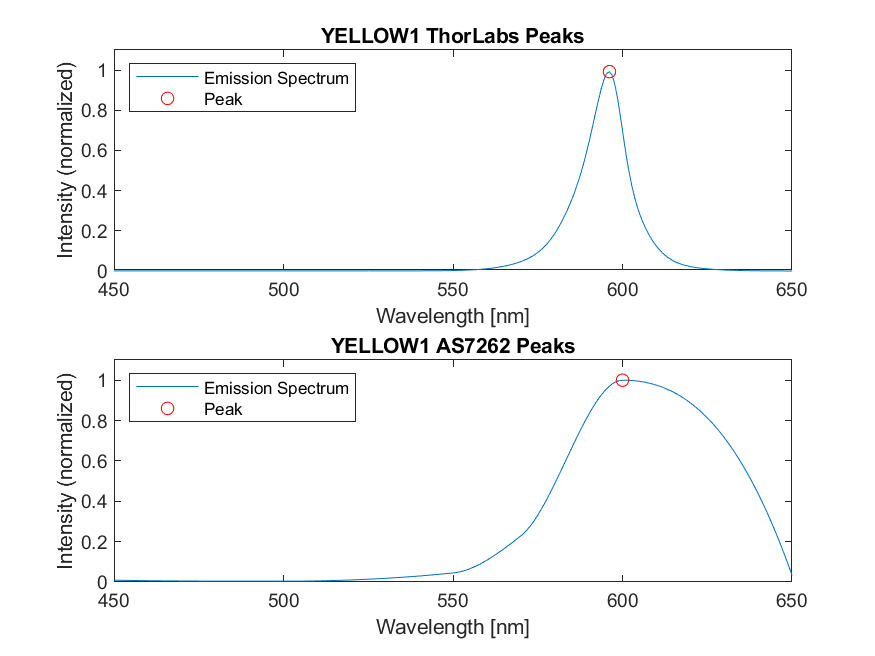
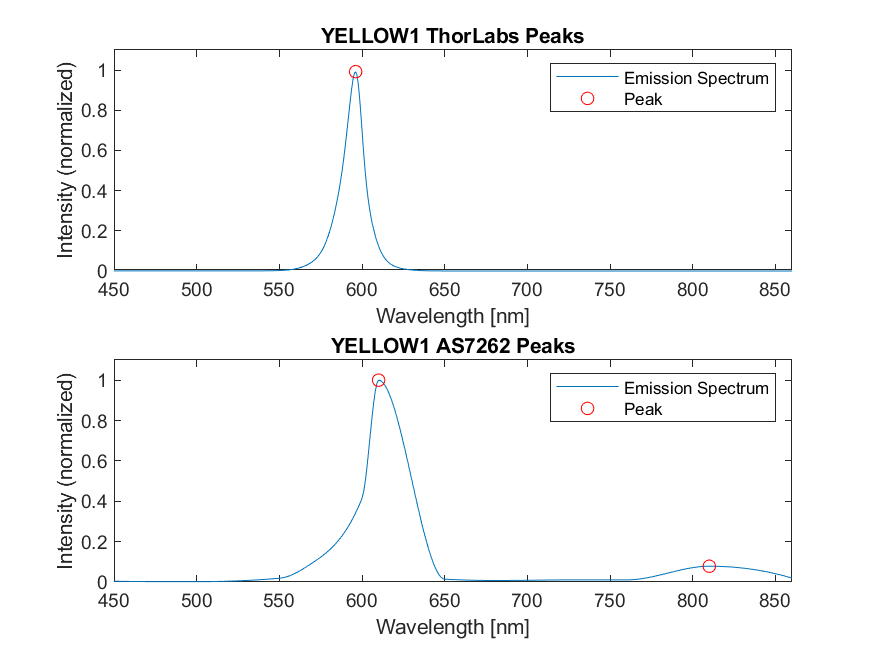
update Yellow S1

diff --git a/MATLAB Code/ResultsSet1/YELLOW_LEDs/YELLOW_RS1_Code.m b/MATLAB Code/ResultsSet1/YELLOW_LEDs/YELLOW_RS1_Code.m
@@ -21,16 +21,16 @@ YELLOW_GetFittedValues;
 figure(1)
 subplot(2,1,1);
 plot(spectrum_Y1_TL_fit,wavelength_TL, spectrum_Y1_TL_norm);
-axis([450 650 0 inf])
-legend("Data","Fitted curve",'Location','northwest');
+axis([450 860 0 inf])
+legend("Data","Fitted curve",'Location','northeast');
 xlabel("Wavelength [nm]");
 ylabel("Intensity (normalized)");
 title("YELLOW1 ThorLabs Fitted Emission Spectrum")
 
 subplot(2,1,2);
-plot(spectrum_Y1_AS_fit,wavelength_AS, spectrum_Y1_AS_norm);
-axis([450 650 0 inf])
-legend("Data","Fitted curve",'Location','northwest');
+plot(spectrum_Y1_AS_fit,wavelengthC_AS, spectrum_Y1_AS_norm);
+axis([450 860 0 inf])
+legend("Data","Fitted curve",'Location','northeast');
 xlabel("Wavelength [nm]");
 ylabel("Intensity (normalized)");
 title("YELLOW1 AS7262 Fitted Emission Spectrum")
@@ -43,8 +43,8 @@ spectrum_Y1_TL_plot = plot(spectrum_Y1_TL_fit,'b');
 hold on;
 spectrum_Y1_AS_plot = plot(spectrum_Y1_AS_fit,'r');
 hold on;
-legend("ThorLabs", "AS7262",'Location','northwest');
-axis([450 650 0 1.1])
+legend("ThorLabs", "AS7262",'Location','northeast');
+axis([450 860 0 1.1])
 xlabel("Wavelength [nm]");
 ylabel("Intensity (normalized)");
 title("YELLOW1 Emission Spectrum");
@@ -65,16 +65,16 @@ spectrum_Y1_AS_yData = get(spectrum_Y1_AS_plot,'yData')';
 figure(3)
 subplot(2,1,1);
 plot(spectrum_Y1_TL_xData,spectrum_Y1_TL_yData,spectrum_Y1_TL_xData(locs_W1_1),spectrum_Y1_TL_peaks,'or')
-axis([450 650 0 1.1])
-legend("Emission Spectrum","Peak",'Location','northwest');
+axis([450 860 0 1.1])
+legend("Emission Spectrum","Peak",'Location','northeast');
 xlabel("Wavelength [nm]");
 ylabel("Intensity (normalized)");
 title("YELLOW1 ThorLabs Peaks")
 
 subplot(2,1,2);
 plot(spectrum_Y1_AS_xData,spectrum_Y1_AS_yData,spectrum_Y1_AS_xData(locs_W1_2),spectrum_Y1_AS_peaks,'or')
-axis([450 650 0 1.1])
-legend("Emission Spectrum","Peak",'Location','northwest');
+axis([450 860 0 1.1])
+legend("Emission Spectrum","Peak",'Location','northeast');
 xlabel("Wavelength [nm]");
 ylabel("Intensity (normalized)");
 title("YELLOW1 AS7262 Peaks")
@@ -87,16 +87,16 @@ saveas(gcf,'YELLOW1_Peaks.png')
 figure(4)
 subplot(2,1,1);
 plot(spectrum_Y2_TL_fit,wavelength_TL, spectrum_Y2_TL_norm);
-axis([450 650 0 inf])
-legend("Data","Fitted curve",'Location','northwest');
+axis([450 860 0 inf])
+legend("Data","Fitted curve",'Location','northeast');
 xlabel("Wavelength [nm]");
 ylabel("Intensity (normalized)");
 title("YELLOW2 ThorLabs Fitted Emission Spectrum")
 
 subplot(2,1,2);
-plot(spectrum_Y2_AS_fit,wavelength_AS, spectrum_Y2_AS_norm);
-axis([450 650 0 inf])
-legend("Data","Fitted curve",'Location','northwest');
+plot(spectrum_Y2_AS_fit,wavelengthC_AS, spectrum_Y2_AS_norm);
+axis([450 860 0 inf])
+legend("Data","Fitted curve",'Location','northeast');
 xlabel("Wavelength [nm]");
 ylabel("Intensity (normalized)");
 title("YELLOW2 AS7262 Fitted Emission Spectrum")
@@ -109,8 +109,8 @@ spectrum_Y2_TL_plot = plot(spectrum_Y2_TL_fit,'b');
 hold on;
 spectrum_Y2_AS_plot = plot(spectrum_Y2_AS_fit,'r');
 hold on;
-legend("ThorLabs", "AS7262",'Location','northwest');
-axis([450 650 0 1.1])
+legend("ThorLabs", "AS7262",'Location','northeast');
+axis([450 860 0 1.1])
 xlabel("Wavelength [nm]");
 ylabel("Intensity (normalized)");
 title("YELLOW2 Emission Spectrum");
@@ -130,16 +130,16 @@ spectrum_Y2_AS_yData = get(spectrum_Y2_AS_plot,'yData')';
 figure(6)
 subplot(2,1,1);
 plot(spectrum_Y2_TL_xData,spectrum_Y2_TL_yData,spectrum_Y2_TL_xData(locs_Y2_1),spectrum_Y2_TL_peaks,'or')
-axis([450 650 0 1.1])
-legend("Emission Spectrum","Peak",'Location','northwest');
+axis([450 860 0 1.1])
+legend("Emission Spectrum","Peak",'Location','northeast');
 xlabel("Wavelength [nm]");
 ylabel("Intensity (normalized)");
 title("YELLOW2 ThorLabs Peaks")
 
 subplot(2,1,2);
 plot(spectrum_Y2_AS_xData,spectrum_Y2_AS_yData,spectrum_Y2_AS_xData(locs_Y2_2),spectrum_Y2_AS_peaks,'or')
-axis([450 650 0 1.1])
-legend("Emission Spectrum","Peak",'Location','northwest');
+axis([450 860 0 1.1])
+legend("Emission Spectrum","Peak",'Location','northeast');
 xlabel("Wavelength [nm]");
 ylabel("Intensity (normalized)");
 title("YELLOW2 AS7262 Peaks")
@@ -152,16 +152,16 @@ saveas(gcf,'YELLOW2_Peaks.png')
 figure(7)
 subplot(2,1,1);
 plot(spectrum_YSTRIP_TL_fit,wavelength_TL, spectrum_YSTRIP_TL_norm);
-axis([450 650 0 inf])
-legend("Data","Fitted curve",'Location','northwest');
+axis([450 860 0 inf])
+legend("Data","Fitted curve",'Location','northeast');
 xlabel("Wavelength [nm]");
 ylabel("Intensity (normalized)");
 title("YELLOW STRIP ThorLabs Fitted Emission Spectrum")
 
 subplot(2,1,2);
-plot(spectrum_YSTRIP_AS_fit,wavelength_AS, spectrum_YSTRIP_AS_norm);
-axis([450 650 0 inf])
-legend("Data","Fitted curve",'Location','northwest');
+plot(spectrum_YSTRIP_AS_fit,wavelengthC_AS, spectrum_YSTRIP_AS_norm);
+axis([450 860 0 inf])
+legend("Data","Fitted curve",'Location','northeast');
 xlabel("Wavelength [nm]");
 ylabel("Intensity (normalized)");
 title("YELLOW STRIP AS7262 Fitted Emission Spectrum")
@@ -175,7 +175,7 @@ hold on;
 spectrum_YSTRIP_AS_plot = plot(spectrum_YSTRIP_AS_fit,'r');
 hold on;
 legend("ThorLabs", "AS7262",'Location','northeast');
-axis([450 650 0 1.1])
+axis([450 860 0 1.1])
 xlabel("Wavelength [nm]");
 ylabel("Intensity (normalized)");
 title("YELLOW STRIP Emission Spectrum");
@@ -195,7 +195,7 @@ spectrum_YSTRIP_AS_yData = get(spectrum_YSTRIP_AS_plot,'yData')';
 figure(9)
 subplot(2,1,1);
 plot(spectrum_YSTRIP_TL_xData,spectrum_YSTRIP_TL_yData,spectrum_YSTRIP_TL_xData(locs_Y3_1),spectrum_YSTRIP_TL_peaks,'or')
-axis([450 650 0 1.1])
+axis([450 860 0 1.1])
 legend("Emission Spectrum","Peak",'Location','northeast');
 xlabel("Wavelength [nm]");
 ylabel("Intensity (normalized)");
@@ -203,7 +203,7 @@ title("YELLOW STRIP ThorLabs Peaks")
 
 subplot(2,1,2);
 plot(spectrum_YSTRIP_AS_xData,spectrum_YSTRIP_AS_yData,spectrum_YSTRIP_AS_xData(locs_Y3_2),spectrum_YSTRIP_AS_peaks,'or')
-axis([450 650 0 1.1])
+axis([450 860 0 1.1])
 legend("Emission Spectrum","Peak",'Location','northeast');
 xlabel("Wavelength [nm]");
 ylabel("Intensity (normalized)");
